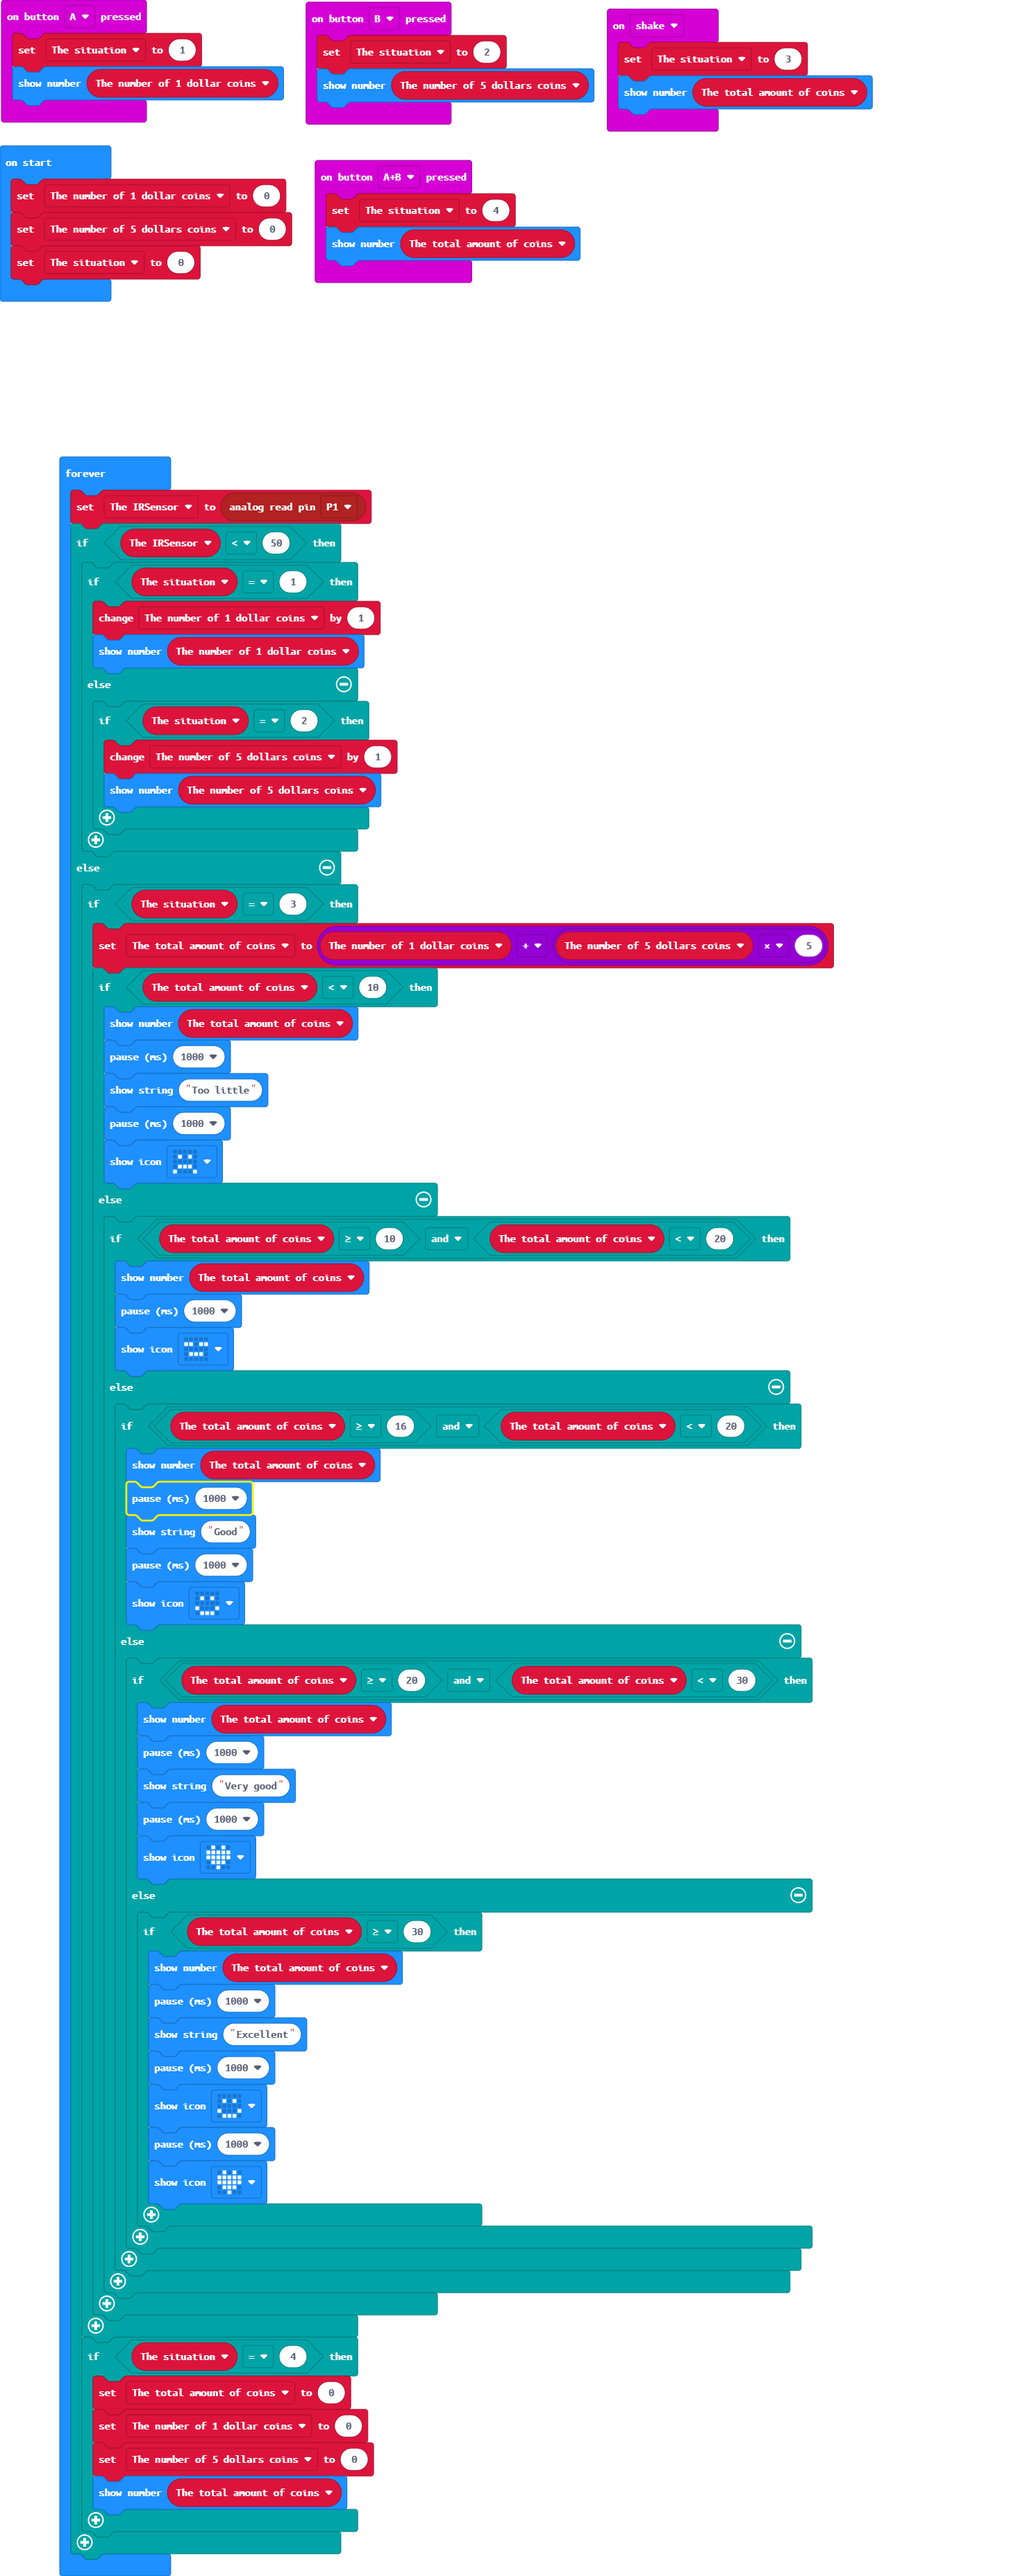
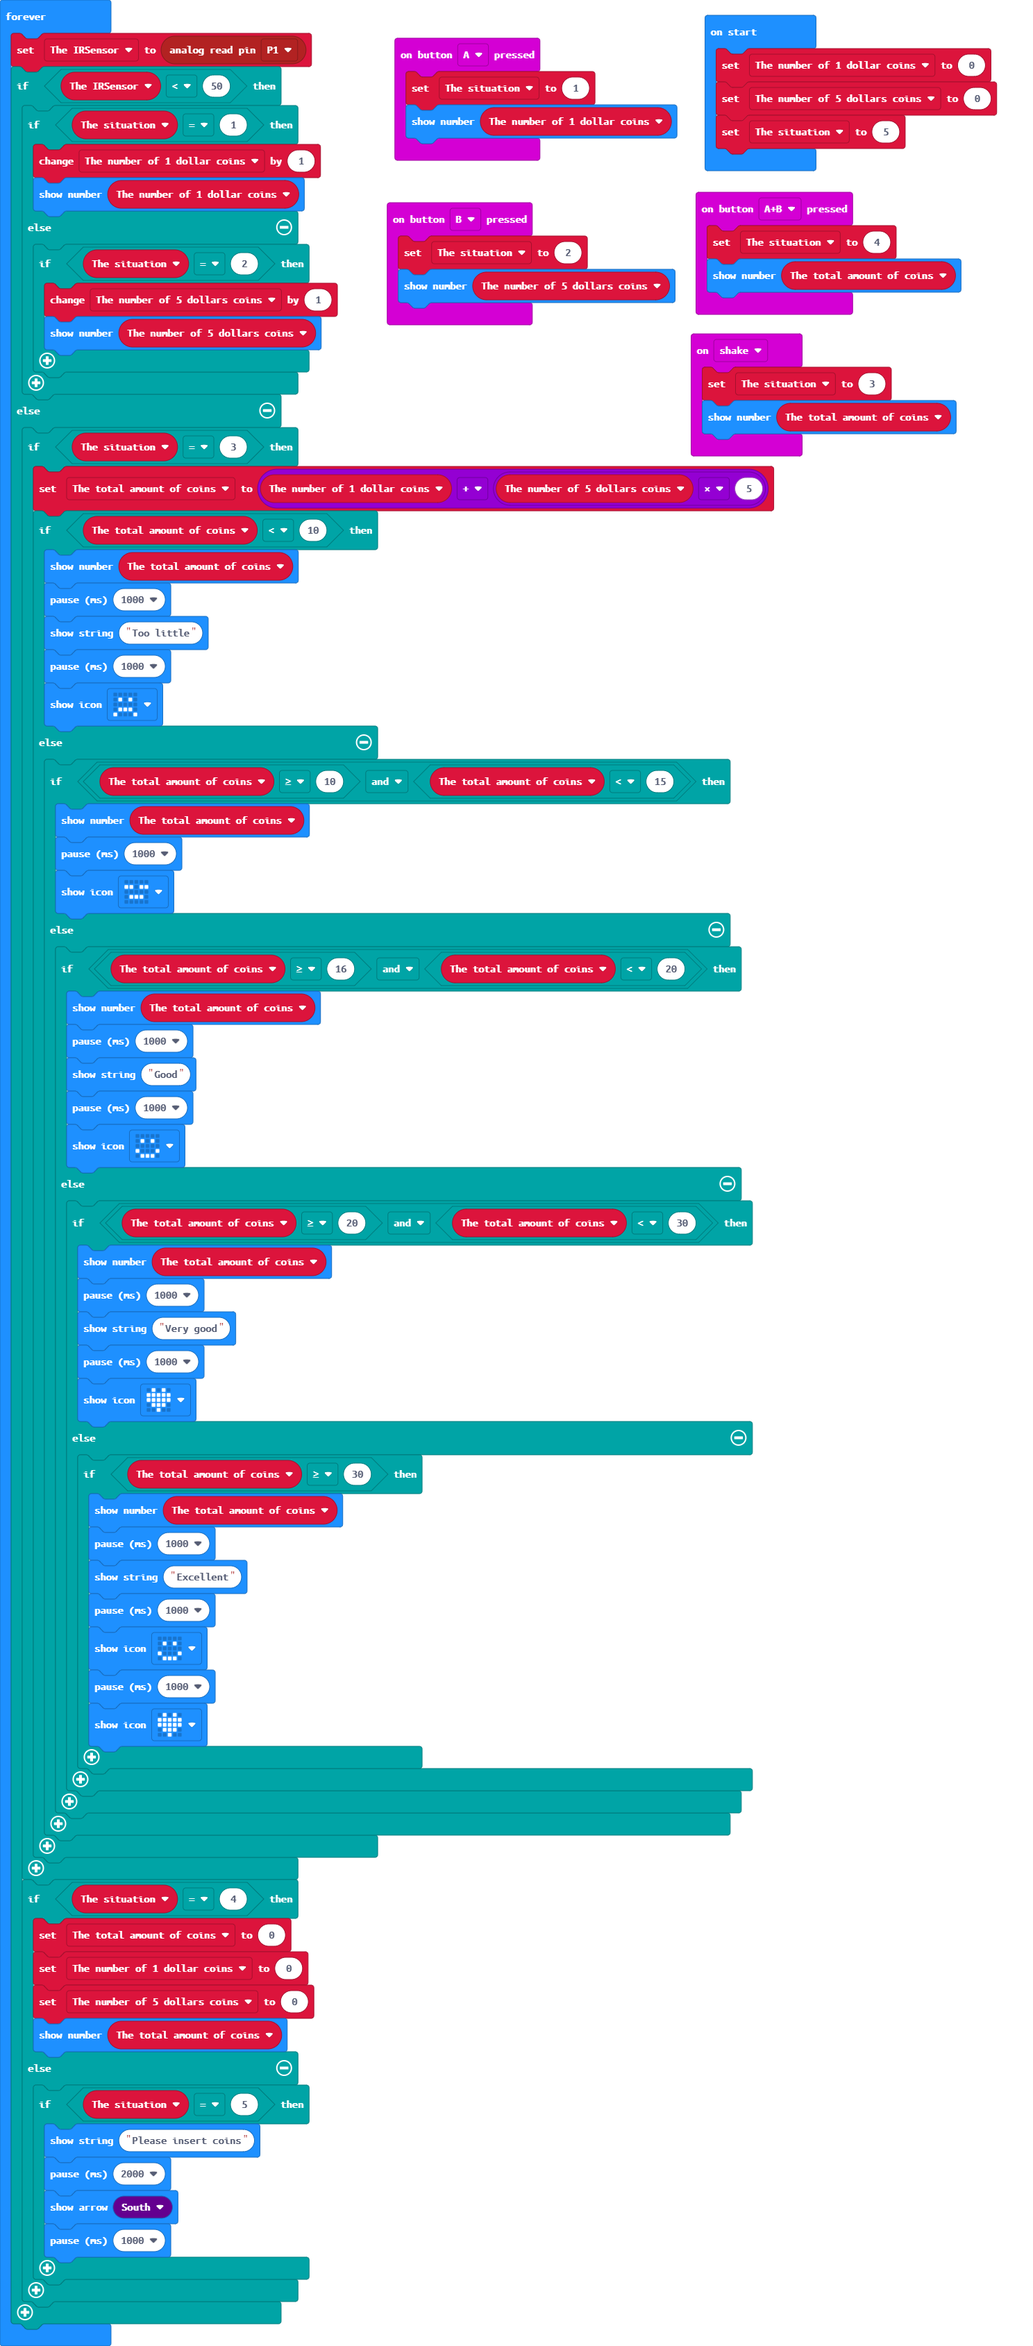
Update main.blocks, main.ts

diff --git a/main.ts b/main.ts
@@ -21,7 +21,7 @@ let The_number_of_5_dollars_coins = 0
 let The_number_of_1_dollar_coins = 0
 The_number_of_1_dollar_coins = 0
 The_number_of_5_dollars_coins = 0
-The_situation = 0
+The_situation = 5
 basic.forever(function () {
     The_IRSensor = pins.analogReadPin(AnalogPin.P1)
     if (The_IRSensor < 50) {
@@ -44,7 +44,7 @@ basic.forever(function () {
                 basic.pause(1000)
                 basic.showIcon(IconNames.Sad)
             } else {
-                if (The_total_amount_of_coins >= 10 && The_total_amount_of_coins < 20) {
+                if (The_total_amount_of_coins >= 10 && The_total_amount_of_coins < 15) {
                     basic.showNumber(The_total_amount_of_coins)
                     basic.pause(1000)
                     basic.showIcon(IconNames.Asleep)
@@ -82,6 +82,13 @@ basic.forever(function () {
             The_number_of_1_dollar_coins = 0
             The_number_of_5_dollars_coins = 0
             basic.showNumber(The_total_amount_of_coins)
+        } else {
+            if (The_situation == 5) {
+                basic.showString("Please insert coins")
+                basic.pause(2000)
+                basic.showArrow(ArrowNames.South)
+                basic.pause(1000)
+            }
         }
     }
 })
